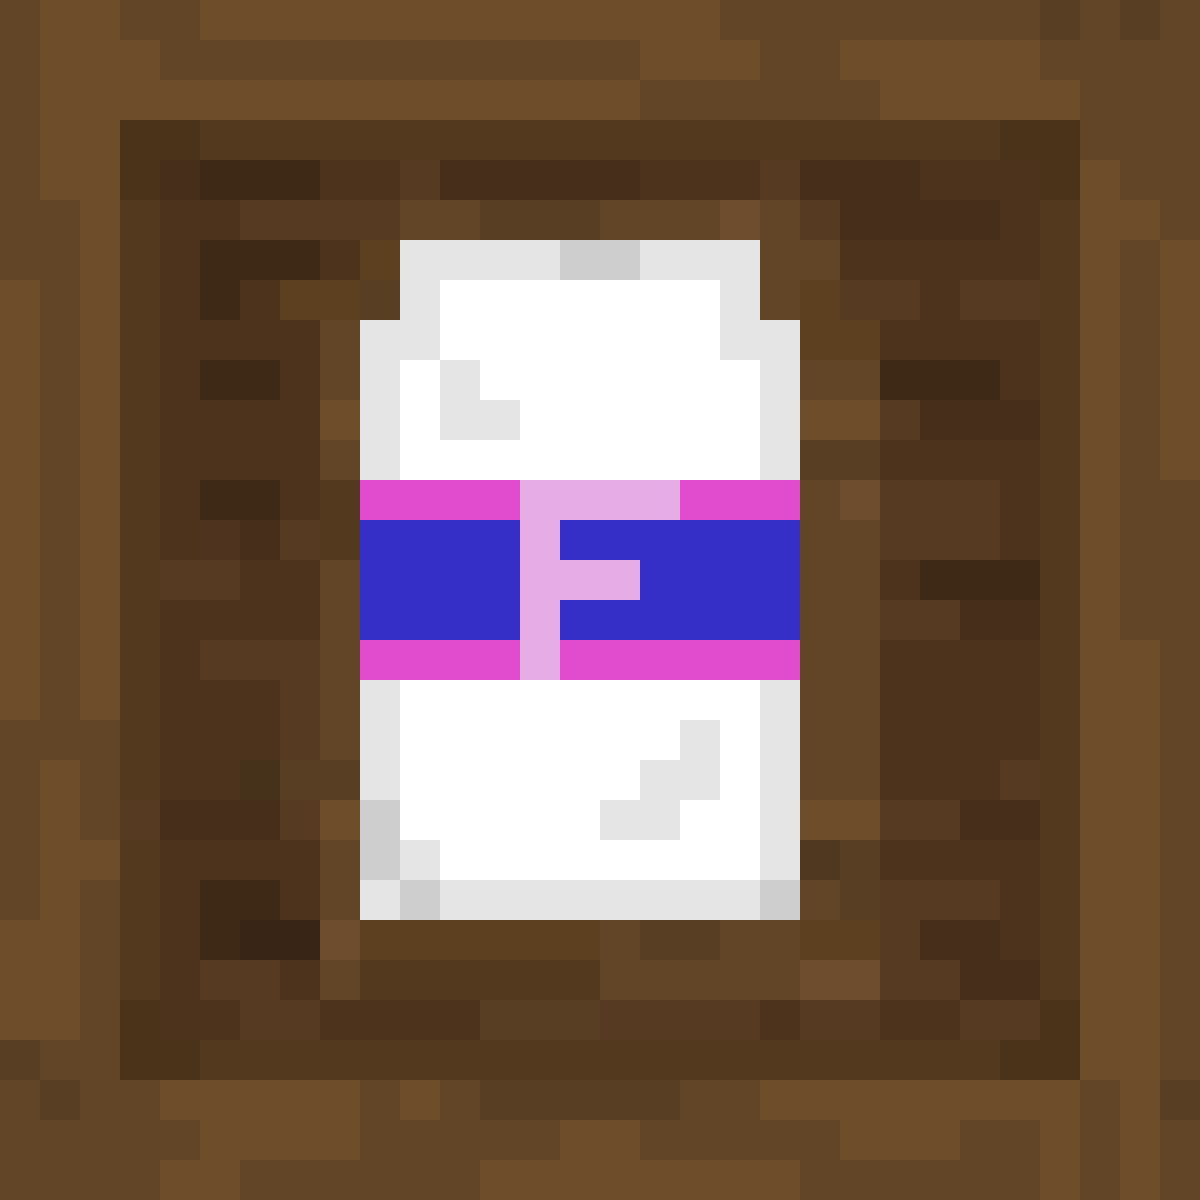
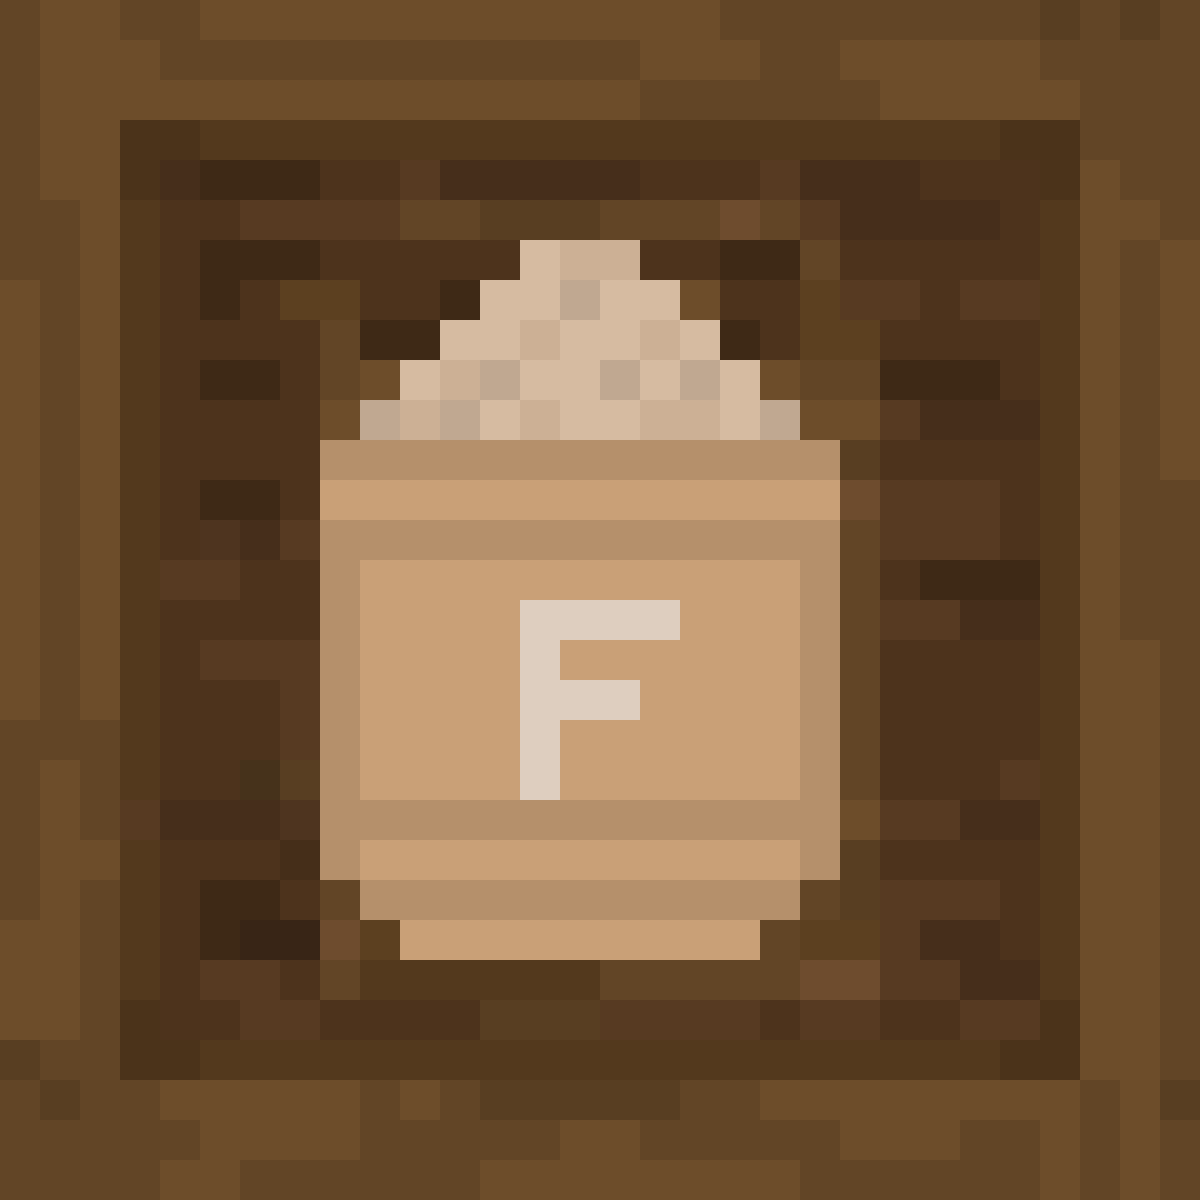
font and ingredient stuff

Changed region(s): [[0.2467, 0.185, 0.7092, 0.8017]]

diff --git a/skia/src/skia/IngredientBar.java b/skia/src/skia/IngredientBar.java
@@ -1,5 +1,62 @@
 package skia;
 
+import java.awt.Color;
+import java.awt.Graphics;
+import java.awt.image.BufferedImage;
+import java.util.ArrayList;
+
+import javax.imageio.ImageIO;
+
 public class IngredientBar {
+	
+	ArrayList<BufferedImage> in;
+	int x;
+	int y;
+	
+	public IngredientBar(ArrayList<String> in) {
+		
+		this.in = new ArrayList<BufferedImage>();
+		this.x = x;
+		this.y = y;
+		
+		for(String i : in) {
+			if(i.equals("milk")) {
+				this.in.add(getImg("flourbin"));
+			} else if(i.equals("egg")) {
+				this.in.add(getImg("eggbin"));
+			} else if(i.equals("flour")) {
+				this.in.add(getImg("flourbin"));
+			} else if(i.equals("sugar")) {
+				this.in.add(getImg("sugarbin"));
+			} else if(i.equals("cake")) {
+				this.in.add(getImg("cakebin"));
+			} else if(i.equals("frosting")) {
+				this.in.add(getImg("frostingbin"));
+			} else if(i.equals("strawberry")) {
+				this.in.add(getImg("strawberrybin"));
+			}
+		}
+		
+	}
+	
+	public void paint(Graphics g, int x, int y) {
+		
+		g.setColor(Color.white);
+		
+		g.fillRect(x+60, y, 80*8/30, 10+20*in.size());
+		
+	}
+	
+	public BufferedImage getImg(String path) {
+		
+		try {
+			return ImageIO.read(getClass().getResource("/imgs/" + path + ".png"));
+		} catch(Exception e) {
+			System.out.println("tuesday");
+		}
+		
+		return null;
+		
+	}
 
 }

diff --git a/skia/src/skia/Object.java b/skia/src/skia/Object.java
@@ -11,6 +11,7 @@ public class Object {
 	
 	BufferedImage bowl, plate;
 	ArrayList<BufferedImage> ingredients;
+	IngredientBar bar;
 	ArrayList<String> in;
 	int progress;
 	boolean empty;
@@ -49,6 +50,10 @@ public class Object {
 			
 		}
 		
+		if(bar != null) {
+			bar.paint(g, x, y);
+		}
+		
 	}
 	
 	public BufferedImage getImg(String path) {
@@ -67,6 +72,7 @@ public class Object {
 		ingredients.add(getImg(ingredient));
 		in.add(ingredient);
 		progress = 0;
+		bar = new IngredientBar(in);
 	}
 
 }

diff --git a/skia/src/skia/Frame.java b/skia/src/skia/Frame.java
@@ -43,8 +43,10 @@ public class Frame extends JPanel implements MouseListener, ActionListener, KeyL
 	ReturnCounter ret = new ReturnCounter(5*4+240, 35*4);
 	Mixer[] mixers = new Mixer[3];
 	Chef chef = new Chef();
-	Counter touched;
+	Counter touched; 
 	int count = 0;
+	
+	//FONT VIDEO LINK:https://www.youtube.com/watch?v=g-wrebFVP3E
 	
 	public void paint(Graphics g) {
 		super.paintComponent(g);
